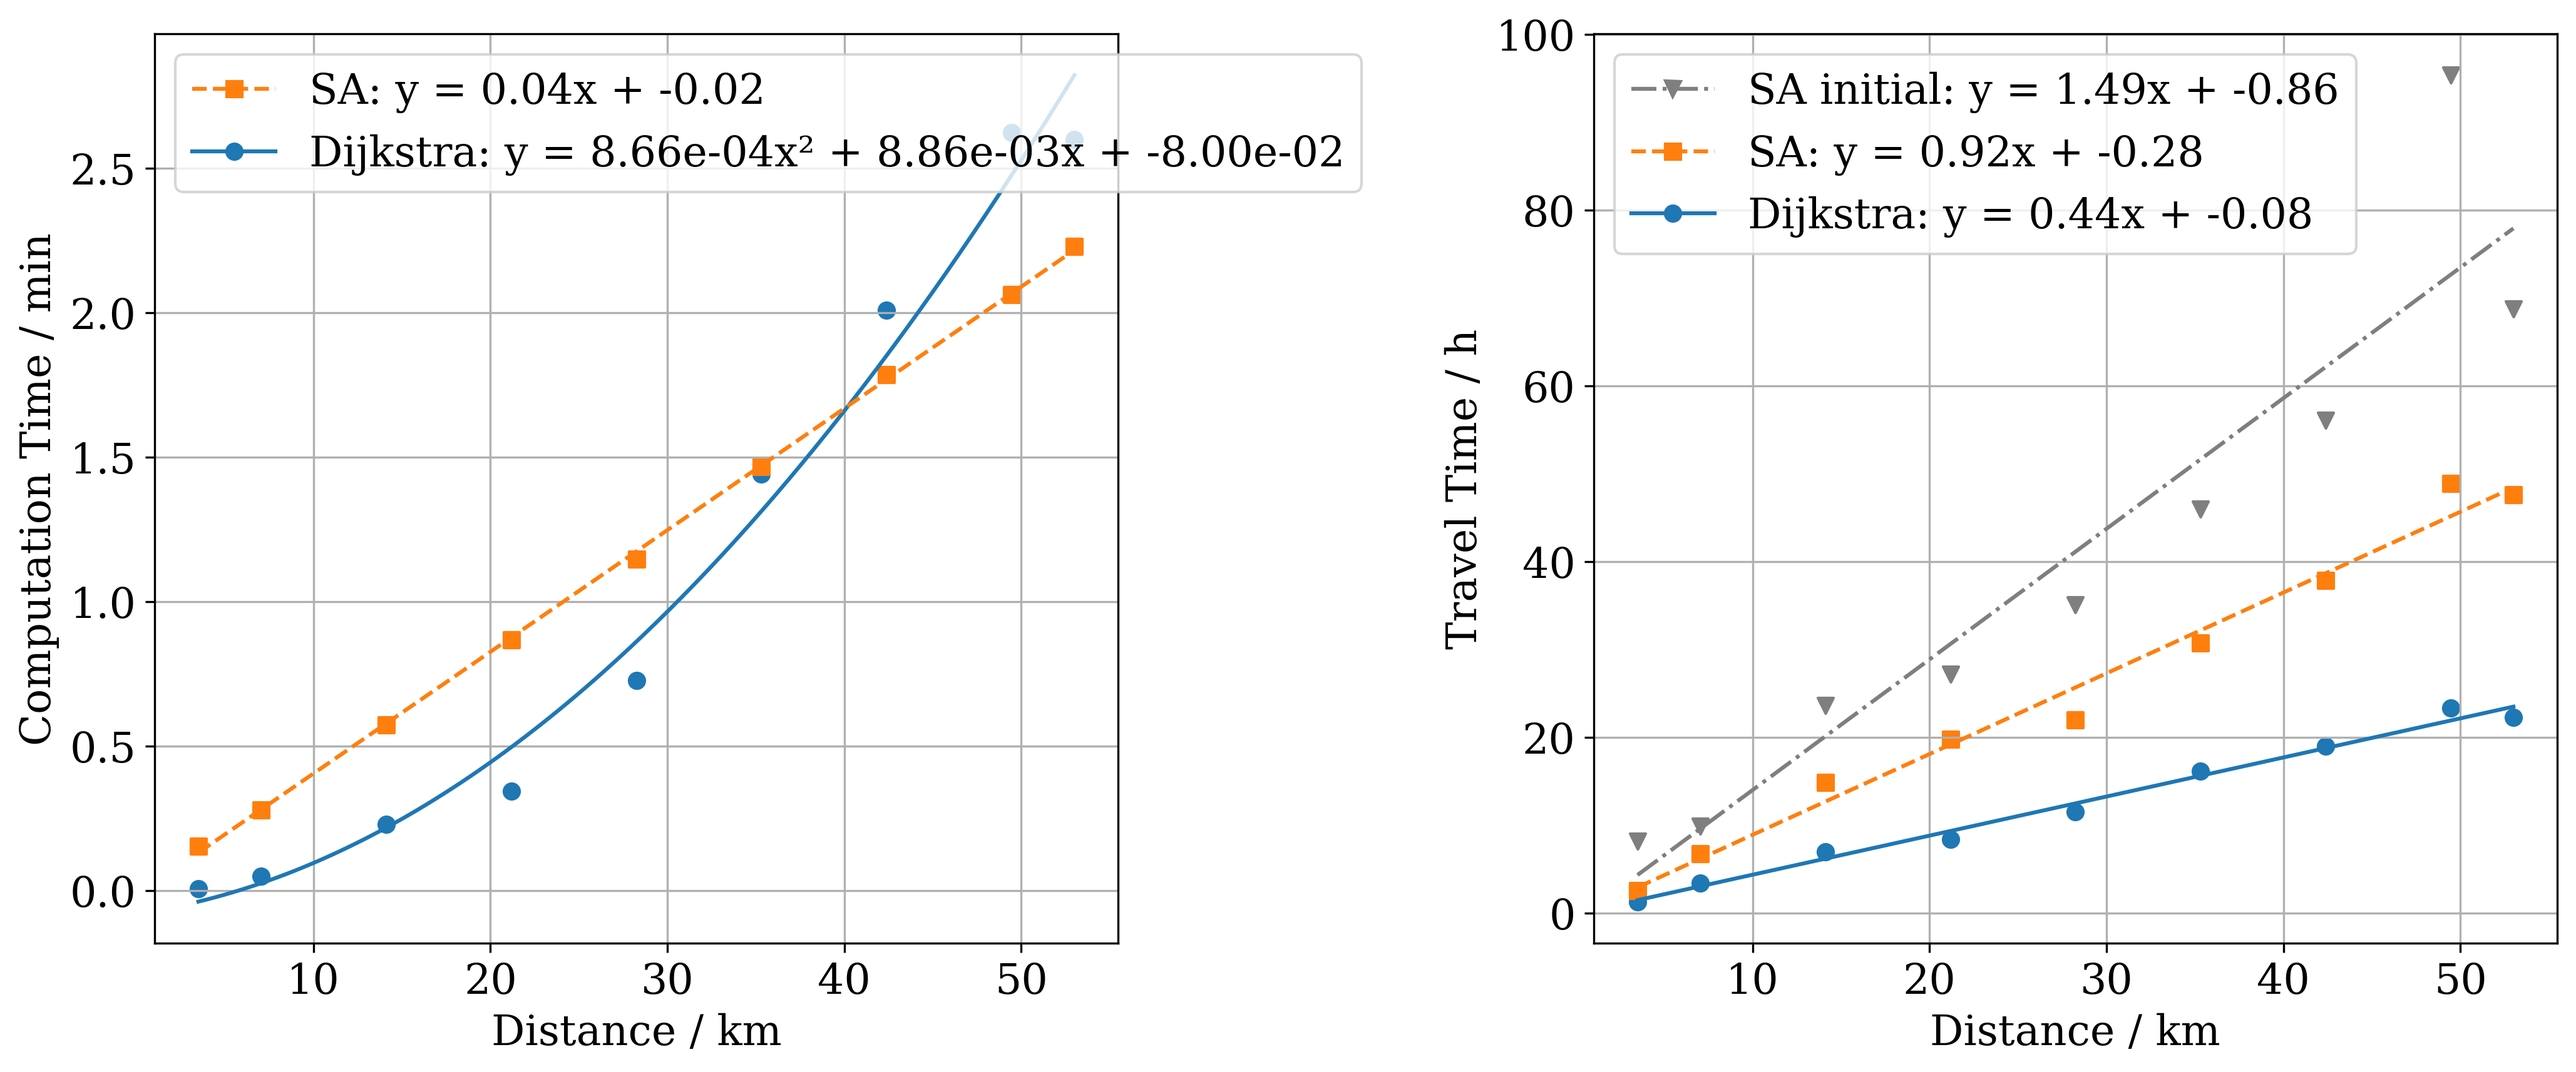
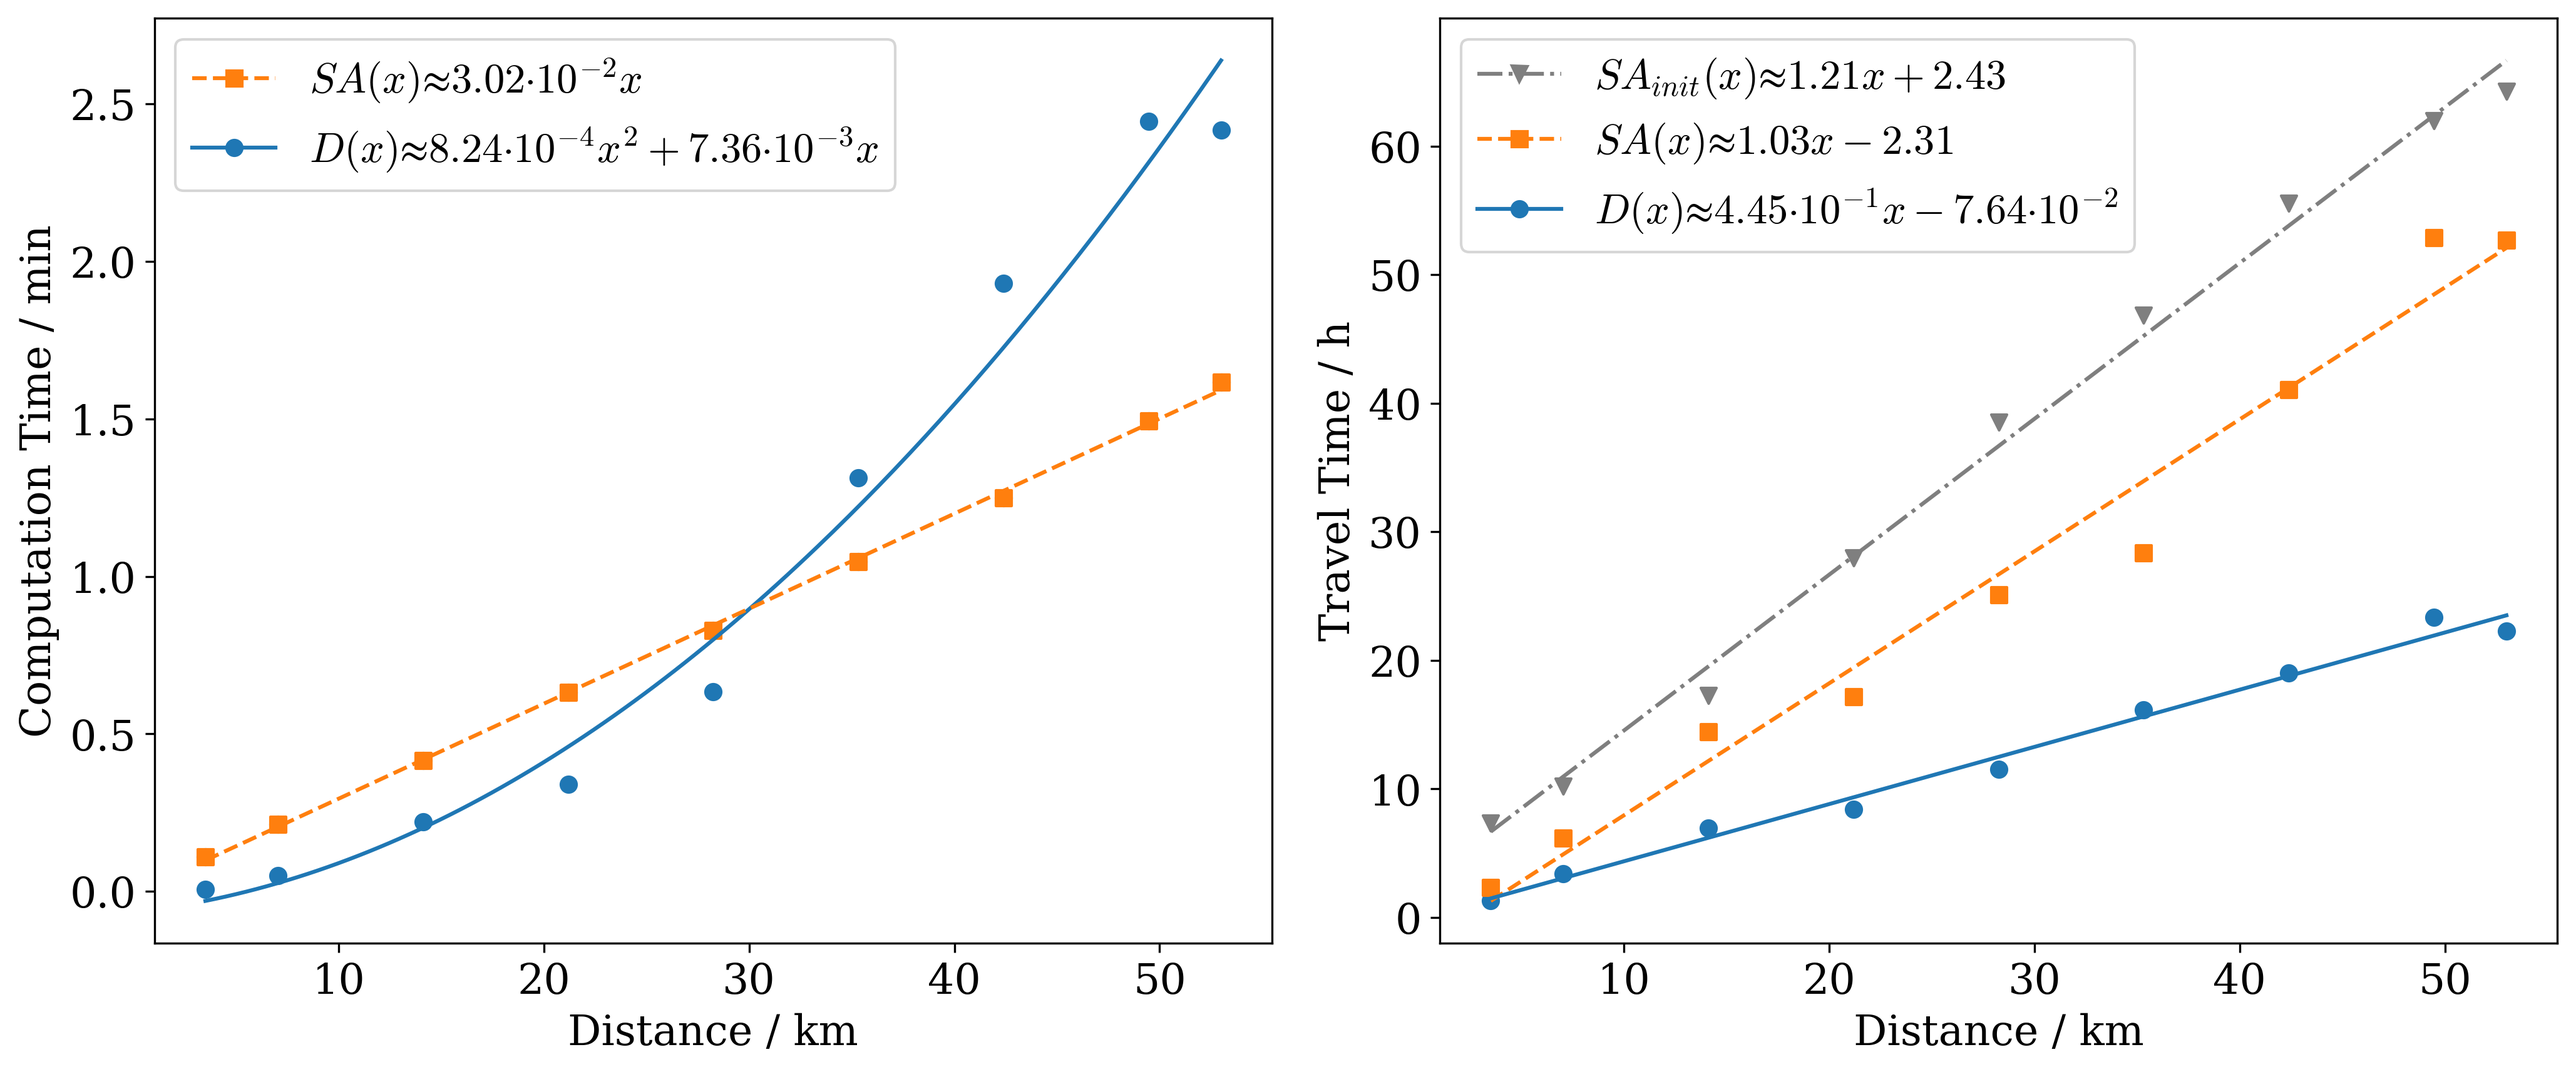
Add, improved plotting and plots.

diff --git a/sa_vs_dijk_time_plot.py b/sa_vs_dijk_time_plot.py
@@ -139,6 +139,17 @@ def linreg(x, y, deg, num_points=200):
     return coeffs, x_fit, y_fit
 
 
+def sci_notation(val, precision=2, first=False):
+    sign = "-" if val < 0 else ("" if first else "+")
+    s = f"{abs(val):.{precision}e}"  # e.g. '2.34e-04'
+    base, exp = s.split("e")
+    exp = int(exp)  # remove leading zeros
+    base = str(float(base))
+    if exp == 0:
+        return f"{sign} {base}"
+    return f"{sign} {base}·10^{{{exp}}}"
+
+
 coeffs_dij_comp, x_fit_dij_comp, y_fit_dij_comp = linreg(
     distances_km, dij_time_m, 2
 )
@@ -181,13 +192,17 @@ axes[0].plot(
 )
 
 # adding the legend
+m_sa_comp = coeffs_sa_comp[0]
 axes[0].plot(
     [],
     [],
     linestyle="--",
     marker="s",
     color="tab:orange",
-    label=f"SA: y = {coeffs_sa_comp[0]:.2f}x + {coeffs_sa_comp[1]:.2f}",
+    label=(
+        f"$SA(x) ≈ {sci_notation(m_sa_comp, first = True)}x$"
+        # "+ {coeffs_sa_comp[1]:.2f}$" # excluded because ≈ 0.01
+    ),
 )
 
 # adding the legend
@@ -198,7 +213,11 @@ axes[0].plot(
     linestyle="-",
     marker="o",
     color="tab:blue",
-    label=f"Dijkstra: y = {a:.2e}x² + {b:.2e}x + {c:.2e}",
+    label=(
+        f"$D(x) ≈ {sci_notation(a, first = True)}x^2 "
+        f"{sci_notation(b)}x$"
+        # f"{sci_notation(c)}$" # removed in the interest of space (it was ≈ 0)
+    ),
 )
 
 # SA ------------
@@ -219,7 +238,7 @@ axes[0].plot(
 
 axes[0].set_xlabel("Distance / km")
 axes[0].set_ylabel("Computation Time / min")
-axes[0].grid(True)
+axes[0].grid(False)
 axes[0].legend(loc="upper left")
 
 # ---- RIGHT: path cost ----
@@ -262,19 +281,24 @@ axes[1].plot(
     linestyle="-.",
     marker="v",
     color="tab:gray",
-    label=f"SA initial: y = {m:.2f}x + {b:.2f}",
+    label=(
+        f"$SA_{{init}}(x) ≈ {sci_notation(m, first = True)}x {sci_notation(b)}$"
+    ),
 )
 
 # adding the legend
+m, b = coeffs_sa_cost
 axes[1].plot(
     [],
     [],
     linestyle="--",
     marker="s",
     color="tab:orange",
-    label=f"SA: y = {coeffs_sa_cost[0]:.2f}x + {coeffs_sa_cost[1]:.2f}",
+    label=(f"$SA(x) ≈ {sci_notation(m, first = True)}x {sci_notation(b)}$"),
 )
 
+
+m, b = coeffs_dij_cost
 # adding the legend
 axes[1].plot(
     [],
@@ -282,7 +306,7 @@ axes[1].plot(
     linestyle="-",
     marker="o",
     color="tab:blue",
-    label=f"Dijkstra: y = {coeffs_dij_cost[0]:.2f}x + {coeffs_dij_cost[1]:.2f}",
+    label=(f"$D(x) ≈ {sci_notation(m, first = True)}x {sci_notation(b)}$"),
 )
 
 
@@ -298,7 +322,7 @@ axes[1].plot(
 
 axes[1].set_xlabel("Distance / km")
 axes[1].set_ylabel("Travel Time / h")
-axes[1].grid(True)
+axes[1].grid(False)
 axes[1].legend(loc="upper left")
 
 plt.tight_layout()
@@ -407,7 +431,7 @@ for goal_node, path_d in dij_paths.items():
     axes[0].scatter(x_coords[0], y_coords[0], color="green", s=60)
     axes[0].scatter(x_coords[-1], y_coords[-1], color="blue", s=60)
 
-axes[0].legend(title="Goal", fontsize=8, loc="upper right")
+axes[0].legend(fontsize=8, loc="upper right")
 
 # ---------- Simulated Annealing ----------
 axes[1].set_title("Simulated Annealing")

diff --git a/sa_training.py b/sa_training.py
@@ -2,10 +2,9 @@ import itertools
 import math
 import time
 
-from joblib import Parallel, delayed
-
 # import matplotlib.pyplot as plt
 from dijkstra_terrain_graph import dijkstra
+from joblib import Parallel, delayed
 from load_elevation_data import load_elevation_data
 from simulated_annealing_a_to_b import simulated_annealing
 from terrain_graph import TerrainGraph
@@ -53,9 +52,9 @@ for start, goal in zip(start_nodes, end_nodes):
 # -------------------------------
 # Parameter grid
 # -------------------------------
-# Best: T0 = 500, alpha=0.990, iterations=2000
-T0_list = [250, 500, 1000, 2000, 4000]
-alpha_list = [0.999, 0.998, 0.995, 0.990]
+# Best: T0 = 250, alpha=0.990, iterations=2000
+T0_list = [50, 250, 500, 1000, 2000, 4000]
+alpha_list = [0.999, 0.998, 0.995, 0.990, 0.980, 0.95]
 iterations_list = [500, 1000, 2000]
 
 repeats = 3  # stochastic algorithm repeats

diff --git a/simulated_annealing_a_to_b.py b/simulated_annealing_a_to_b.py
@@ -164,7 +164,7 @@ def mutate_path(terrain, path, T, T0):
 
 
 def simulated_annealing(
-    terrain, start, goal, T0=4000, alpha=0.998, iterations=2000
+    terrain, start, goal, T0=250, alpha=0.990, iterations=2000
 ):
 
     initial_path = safe_random_path(terrain, start, goal)
